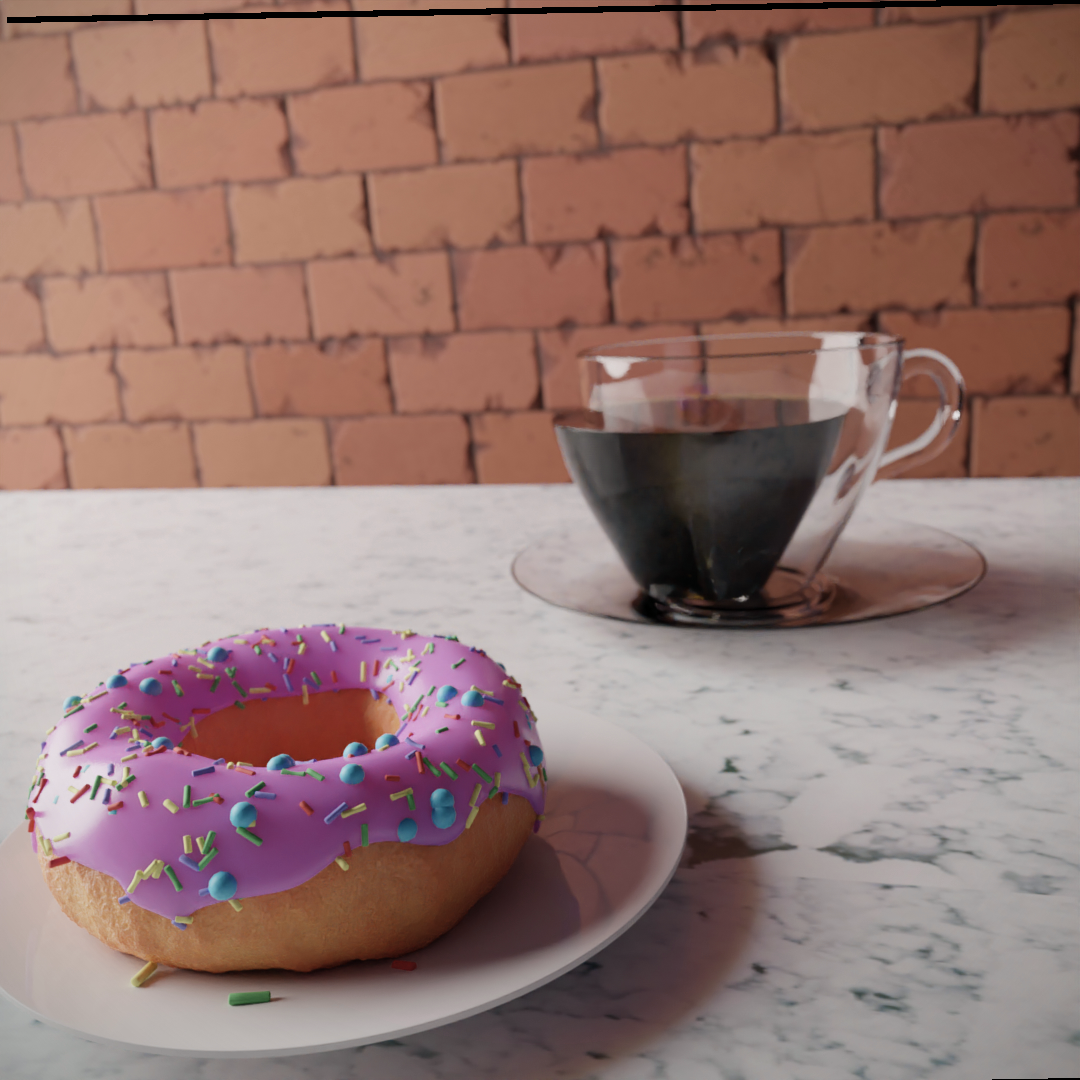
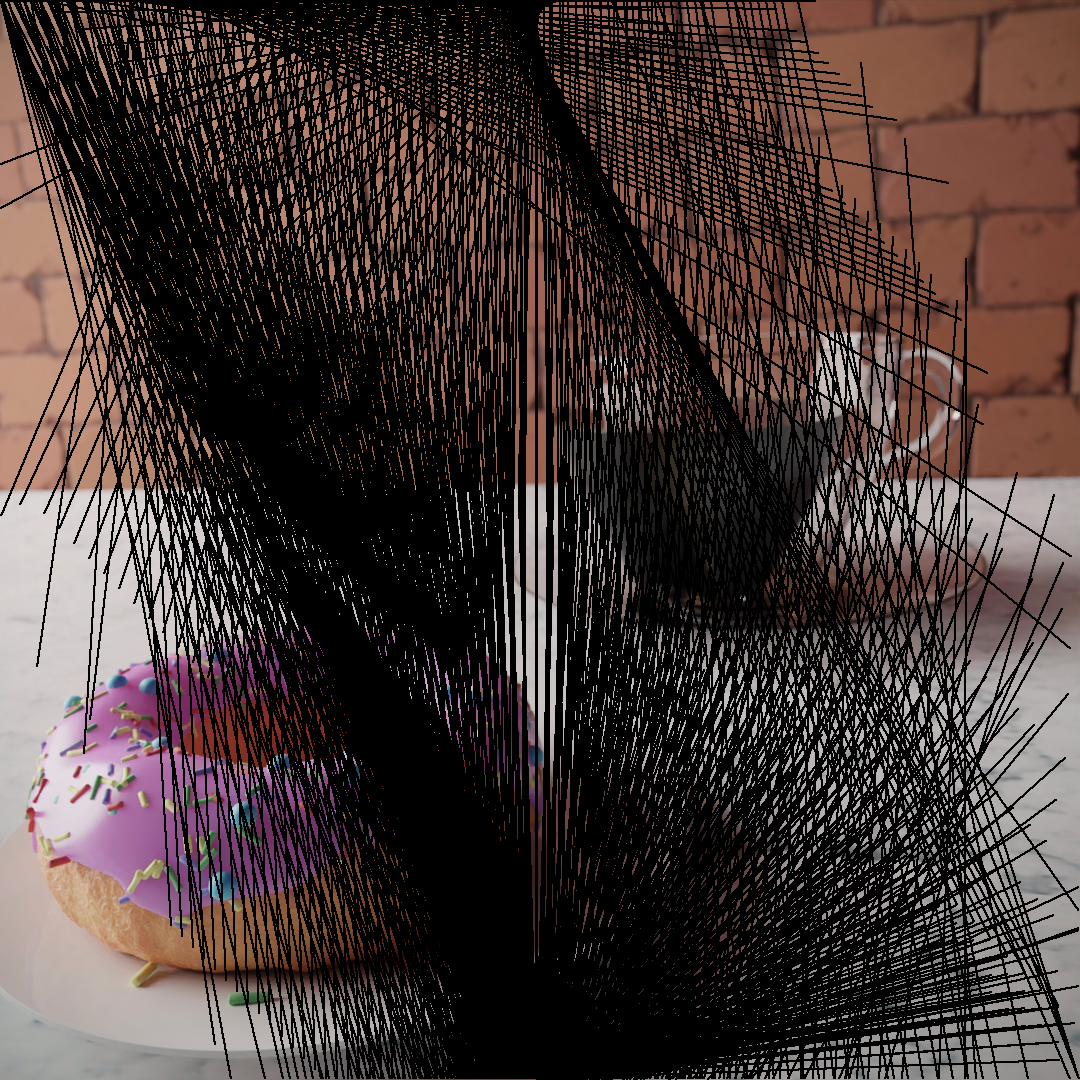
Added base for line drawing of detected lines

diff --git a/line_detection.py b/line_detection.py
@@ -1,7 +1,9 @@
 import numpy as np
+import line_drawing
 
 
-def line_detection_vectorized(image, edge_image, num_rhos=180, num_thetas=180, t_count=500, draw=True):
+# TODO refactor into two functions, one that draws image with lines, other that returns line points
+def line_detection_vectorized(image, edge_image, draw=True, num_rhos=180, num_thetas=180, t_count=500):
     edge_height, edge_width = edge_image.shape[:2]
     edge_height_half, edge_width_half = edge_height / 2, edge_width / 2
     
@@ -22,9 +24,9 @@ def line_detection_vectorized(image, edge_image, num_rhos=180, num_thetas=180, t
     rho_values = np.matmul(edge_points, np.array([sin_thetas, cos_thetas]))
     
     accumulator, theta_vals, rho_vals = np.histogram2d(
-    np.tile(thetas, rho_values.shape[0]),
-    rho_values.ravel(),
-    bins=[thetas, rhos]
+        np.tile(thetas, rho_values.shape[0]),
+        rho_values.ravel(),
+        bins=[thetas, rhos]
     )
     
     accumulator = np.transpose(accumulator)
@@ -65,15 +67,21 @@ def line_detection_vectorized(image, edge_image, num_rhos=180, num_thetas=180, t
         else:
             x0 = (a * rho) + edge_width_half
             y0 = (b * rho) + edge_height_half
-            x1 = int(x0 + 1000 * (-b))
-            y1 = int(y0 + 1000 * (a))
-            x2 = int(x0 - 1000 * (-b))
-            y2 = int(y0 - 1000 * (a))
-            
-            # if draw:
-                # draw_line(image, x1, y1, x2, y2)
+            x0 = int(x0 + 1000 * (-b))
+            y0 = int(y0 + 1000 * (a))
+            x1 = int(x0 - 1000 * (-b))
+            y1 = int(y0 - 1000 * (a))
                 
-            line_points_final.append((x1, y1, x2, y2))
+            line_points_final.append((y0, y1,x0, x1))
         
             a_thresh = rho
             b_thresh = theta
+    return line_points_final
+
+    # if draw:
+    #     for line in line_points_final:
+    #         image_with_lines = line_drawing.draw_line_on_image(image_with_lines, line[0], line[1], line[2], line[3], 2)
+    #     return image_with_lines
+
+    # return np.copy(image)
+    

diff --git a/main.py b/main.py
@@ -5,6 +5,7 @@ import thresholding
 import numpy as np
 import blur
 import line_drawing
+import line_detection
 
 
 def open_image_as_array(file_name):
@@ -27,13 +28,15 @@ def show_image_from_array(image_array, save_name='show.png'):
 
 if __name__ == "__main__":
 	sample_image = open_image_as_array('ponczek.png')
-	## monochrome_image = rgb_to_mono(sample_image)
+	blurred_image = blur.gaussian_blur(sample_image, 5, 12)
+	
+	monochrome_image = rgb_to_mono(blurred_image)
 	## show_image_from_array(monochrome_image)
-	## thrsh = thresholding.threshold_adaptive(monochrome_image)
-	## edge_image = edge_detection_sobel.sobel_edge_detection(thrsh, 0)
-	## blurred_image = blur.gaussian_blur(sample_image, 5, 12)
+	thrsh = thresholding.threshold_adaptive(monochrome_image)
+	edge_image = edge_detection_sobel.sobel_edge_detection(thrsh, 0)
 	## show_image_from_array(blurred_image)
 
-	line_drawing.draw_line_on_image(sample_image, 20, 10, -300, 6000, 4)
-
+	## line_drawing.draw_line_on_image(sample_image, 20, 10, -300, 6000, 4)
+	line_image_points = line_detection.line_detection_vectorized(sample_image, edge_image)
+	line_drawing.draw_multiple_lines_on_image(sample_image, line_image_points,2)
 	show_image_from_array(sample_image)

diff --git a/line_drawing.py b/line_drawing.py
@@ -10,11 +10,6 @@ def draw_line_on_image(image, x0, y0, x1, y1, width: int=1):
     y0 = check_if_point_in_image(image, y0, 1)
     y1 = check_if_point_in_image(image, y1, 1)
 
-    print(x0)
-    print(x1)
-    print(y0)
-    print(y1)
-
     if  abs(y1 - y0) < abs(x1 - x0):
         if x0 > x1:
             line_pixels = get_line_points_down(x1, y1, x0, y0)
@@ -36,6 +31,10 @@ def draw_line_on_image(image, x0, y0, x1, y1, width: int=1):
                         image[pix[0] + x, pix[1] + y] = 0
                     except IndexError:
                         break
+
+def draw_multiple_lines_on_image(image, points_list, width: int=1):
+    for line_points in points_list:
+        draw_line_on_image(image, line_points[0], line_points[1], line_points[2], line_points[3], width)
 
 
 def check_if_point_in_image(image, point, direction):
